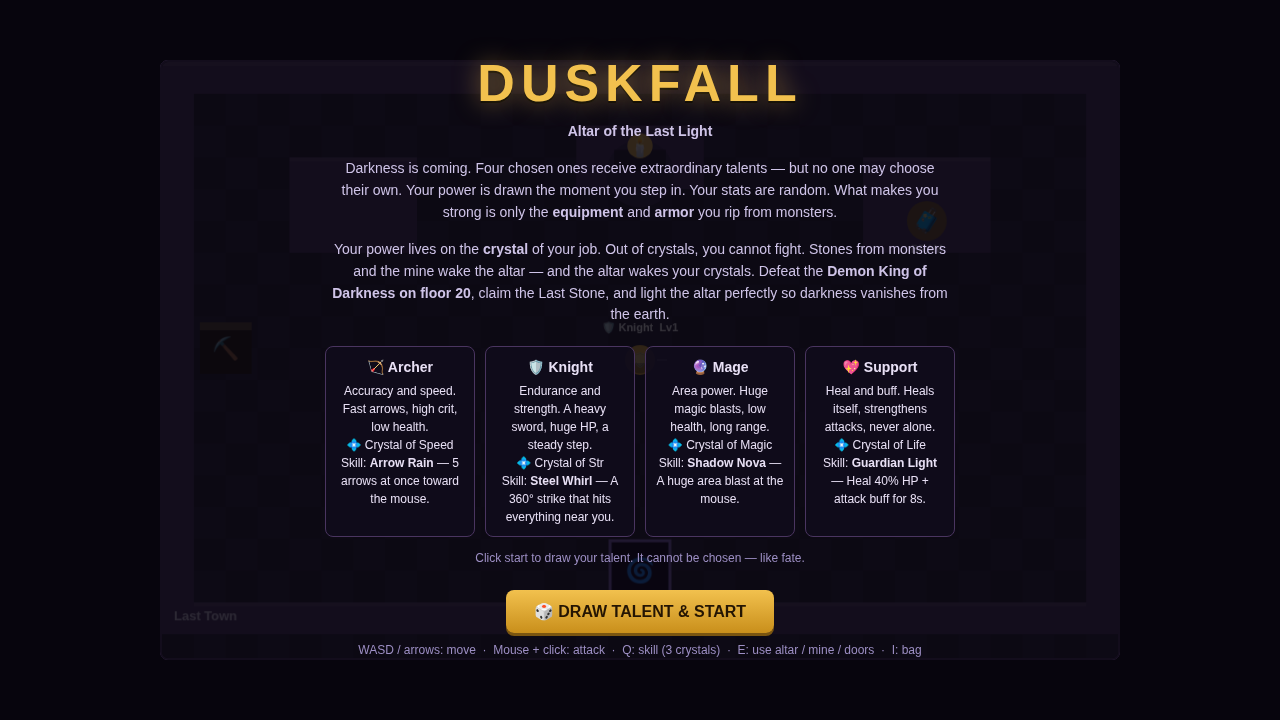
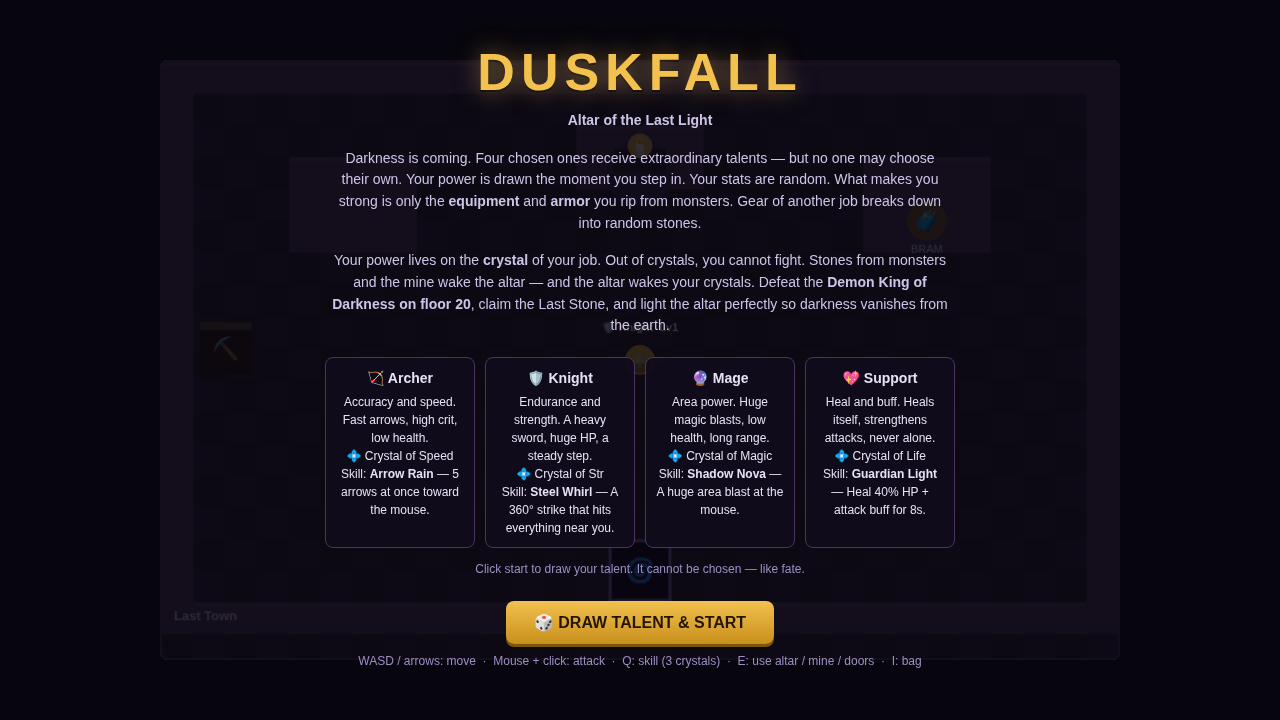
Duskfall — remove gold; job-tagged gear + salvage, stones HUD

Changed region(s): [[0.25, 0.4889, 0.75, 0.9472], [0.25, 0.0611, 0.75, 0.4583], [0.25, 0.7333, 0.2812, 0.7639]]

diff --git a/game/src/main.js b/game/src/main.js
@@ -1,7 +1,7 @@
 // Duskfall — entrypoint: state machine, game loop, HUD, town systems
 // (altar, trader, mine timer), dungeon progression and the ending.
 
-import { CLASSES, CLASS_IDS, STONES, CRYSTAL_PER_STONE, TRADE_RATE, statSummary } from './data.js';
+import { CLASSES, CLASS_IDS, STONES, CRYSTAL_PER_STONE, TRADE_RATE, SALVAGE_YIELD, rollArmor, statSummary } from './data.js';
 import { buildTown, buildMine, buildDungeonFloor, nearestObject, collide, TOWN, DUNGEON, MINE } from './world.js';
 import {
   createPlayer, effectiveStats, syncMaxHp, playerAttack, useSkill,
@@ -17,9 +17,9 @@ const ctx = canvas.getContext('2d');
 const $ = (id) => document.getElementById(id);
 const els = {
   hpFill: $('hpFill'), hpText: $('hpText'), xpFill: $('xpFill'), xpText: $('xpText'),
-  crystalPill: $('crystalPill'), floorPill: $('floorPill'), goldText: $('goldText'),
+  crystalPill: $('crystalPill'), floorPill: $('floorPill'), stonesTop: $('stonesTop'),
   mineText: $('mineText'), classPill: $('classPill'), gearPill: $('gearPill'),
-  stonePill: $('stonePill'), toast: $('toast'), prompt: $('prompt'),
+  toast: $('toast'), prompt: $('prompt'),
   title: $('titleScreen'), dead: $('deadScreen'), win: $('winScreen'),
   deadStats: $('deadStats'), winStats: $('winStats'),
   altarPanel: $('altarPanel'), traderPanel: $('traderPanel'), invPanel: $('invPanel'),
@@ -148,16 +148,13 @@ function openAltar() {
 function openTrader() {
   panel = 'trader';
   const own = player.cls.crystal;
-  let html = `<p>💰 Your gold: <b>${player.gold}</b> &nbsp;·&nbsp; Stones of your job (${STONES[own].name}): <b>${player.stones[own]}</b></p>`;
+  let html = `<p>Stones of your job (${STONES[own].name}): <b>${player.stones[own]}</b></p>`;
   for (const [kind, st] of Object.entries(STONES)) {
     if (kind === own) continue;
     const n = player.stones[kind];
     html += `<div class="row"><span>${st.icon} ${st.name}: <b>${n}</b></span>
-      <button data-trade="${kind}" ${n < TRADE_RATE ? 'disabled' : ''}>Trade ${TRADE_RATE} → 1 ${STONES[own].name}</button>
-      <button data-sell="${kind}" ${n < 1 ? 'disabled' : ''}>Sell 1 (+10 🪙)</button></div>`;
+      <button data-trade="${kind}" ${n < TRADE_RATE ? 'disabled' : ''}>Trade ${TRADE_RATE} → 1 ${STONES[own].name}</button></div>`;
   }
-  html += `<div class="row"><span>Buy 1 ${STONES[own].name}</span>
-    <button data-buy="1" ${player.gold < 25 ? 'disabled' : ''}>25 🪙</button></div>`;
   els.traderRows.innerHTML = html;
   els.traderRows.querySelectorAll('button[data-trade]').forEach((b) => {
     b.addEventListener('click', () => {
@@ -170,21 +167,6 @@ function openTrader() {
       openTrader(); updateHud();
     });
   });
-  els.traderRows.querySelectorAll('button[data-sell]').forEach((b) => {
-    b.addEventListener('click', () => {
-      const k = b.dataset.sell;
-      if (player.stones[k] < 1) return;
-      player.stones[k] -= 1; player.gold += 10;
-      sfx.coin(); openTrader(); updateHud();
-    });
-  });
-  els.traderRows.querySelectorAll('button[data-buy]').forEach((b) => {
-    b.addEventListener('click', () => {
-      if (player.gold < 25) return;
-      player.gold -= 25; player.stones[own] += 1;
-      sfx.coin(); openTrader(); updateHud();
-    });
-  });
   els.traderPanel.style.display = 'flex';
 }
 
@@ -194,12 +176,17 @@ function openInv() {
   let html = `<p>Effective stats: ATK <b>${st.atk}</b> · DEF <b>${st.def}</b> · HP <b>${player.hp}/${player.maxHp}</b> · CRIT <b>${Math.round(st.crit * 100)}%</b></p>`;
   html += '<p>Equipped:</p><div style="display:flex;gap:6px;flex-wrap:wrap">';
   for (const [slot, item] of Object.entries(player.equipped)) {
-    html += `<div class="slot" data-eq="${slot}">${slot.toUpperCase()}<br>${item ? `<span class="r-${item.rarity}">${item.name}</span><br>${statSummary(item.stats)}` : '— empty —'}</div>`;
+    html += `<div class="slot" data-eq="${slot}">${slot.toUpperCase()}<br>${item ? `<span class="r-${item.rarity}">${item.name}</span><br>${statSummary(item.stats)}<br><span style="color:#9d8fc4">${CLASSES[item.job].icon} ${CLASSES[item.job].name}</span>` : '— empty —'}</div>`;
   }
   html += '</div><p>Bag (click to equip):</p><div style="display:flex;gap:6px;flex-wrap:wrap">';
   if (!player.inventory.length) html += '<span style="color:#9d8fc4">Bag is empty — defeat monsters for armor drops.</span>';
   for (const item of player.inventory) {
-    html += `<div class="slot" data-item="${item.id}"><span class="r-${item.rarity}">${item.name}</span><br>${statSummary(item.stats)}</div>`;
+    const jobLine = `<br><span style="color:#9d8fc4">${CLASSES[item.job].icon} ${CLASSES[item.job].name}</span>`;
+    if (item.job === player.classId) {
+      html += `<div class="slot" data-item="${item.id}"><span class="r-${item.rarity}">${item.name}</span><br>${statSummary(item.stats)}${jobLine}</div>`;
+    } else {
+      html += `<div class="slot" data-salvage="${item.id}"><span class="r-${item.rarity}">${item.name}</span><br>${statSummary(item.stats)}${jobLine}<br><b style="color:#ffd94a">🔨 Salvage → ${SALVAGE_YIELD[item.rarity] || 1} 🪨 random</b></div>`;
+    }
   }
   html += '</div>';
   els.inv.innerHTML = html;
@@ -211,6 +198,13 @@ function openInv() {
       sfx.pickup(); openInv(); updateHud();
     });
   });
+  els.inv.querySelectorAll('[data-salvage]').forEach((el) => {
+    el.addEventListener('click', () => {
+      const item = player.inventory.find((i) => i.id === el.dataset.salvage);
+      if (!item) return;
+      salvageItem(item);
+    });
+  });
   els.inv.querySelectorAll('[data-eq]').forEach((el) => {
     el.addEventListener('click', () => {
       const item = player.equipped[el.dataset.eq];
@@ -220,6 +214,23 @@ function openInv() {
     });
   });
   els.invPanel.style.display = 'flex';
+}
+
+// Break down a wrong-job piece into random stones, scaled by rarity.
+function salvageItem(item) {
+  const n = SALVAGE_YIELD[item.rarity] || 1;
+  const kinds = Object.keys(STONES);
+  const gained = {};
+  for (let i = 0; i < n; i++) {
+    const k = kinds[Math.floor(Math.random() * kinds.length)];
+    player.stones[k] += 1;
+    gained[k] = (gained[k] || 0) + 1;
+  }
+  player.inventory = player.inventory.filter((i) => i !== item);
+  sfx.pickup();
+  const parts = Object.entries(gained).map(([k, c]) => `${STONES[k].icon}${c}`).join(' ');
+  toast(`🔨 ${item.name} → +${n} 🪨 (${parts})`);
+  openInv(); updateHud();
 }
 
 // ---- run flow -------------------------------------------------------------
@@ -322,13 +333,12 @@ function updateHud() {
   els.xpText.textContent = `Lv ${player.level}`;
   els.crystalPill.innerHTML = `${player.cls.crystalIcon} ${player.cls.crystalName} <b>${player.crystals}</b>`;
   els.floorPill.textContent = area.kind === TOWN ? '🏠 Last Town' : area.kind === MINE ? '⛏ Mine' : `🌀 Floor ${area.floor}/20`;
-  els.goldText.textContent = player.gold;
   els.mineText.textContent = fmtTime(mineLeft());
   els.classPill.textContent = `${player.cls.icon} ${player.cls.name} · ATK ${st.atk} · DEF ${st.def}`;
   const eq = player.equipped;
   els.gearPill.textContent = `⚔ ${eq.weapon ? eq.weapon.name : '—'} · 🛡 ${eq.armor ? eq.armor.name : '—'} · ✨ ${eq.charm ? eq.charm.name : '—'}`;
   const stones = Object.entries(player.stones).map(([k, n]) => `${STONES[k].icon}${n}`).join(' ');
-  els.stonePill.textContent = `🪨 ${stones}${player.hasDawnStone ? ' · ☀ Last Stone' : ''}`;
+  els.stonesTop.innerHTML = `🪨 ${stones}${player.hasDawnStone ? ' · ☀ Last Stone' : ''}`;
   if (player.crystals === 0) els.crystalPill.style.borderColor = '#ff5a5a';
   else els.crystalPill.style.borderColor = '';
 }
@@ -423,7 +433,7 @@ function stageScene(scene) {
   if (scene === 'win' || scene === 'dead') {
     player = createPlayer(rng);
     player.level = 14; player.kills = 187; player.floorsCleared = 20;
-    player.crystals = 12; player.gold = 340;
+    player.crystals = 12;
     player.stones = { speed: 3, str: 2, magic: 4, life: 1 };
     player.hasDawnStone = true;
     runStartedAt = performance.now() - 42 * 60000;
@@ -437,7 +447,7 @@ function stageScene(scene) {
   if (scene === 'title') return; // default title screen
   player = createPlayer(rng);
   syncMaxHp(player, 0);
-  player.crystals = 18; player.gold = 120; player.level = 5; player.kills = 23;
+  player.crystals = 18; player.level = 5; player.kills = 23;
   player.stones = { speed: 4, str: 2, magic: 1, life: 3 };
   player.inventory = [];
   runStartedAt = performance.now() - 9 * 60000;
@@ -447,6 +457,15 @@ function stageScene(scene) {
     area = buildTown();
     player.x = 15 * 32; player.y = 8 * 32;
     if (scene === 'altar') openAltar();
+  } else if (scene === 'bag') {
+    // Staged bag demo: one own-job piece, two wrong-job pieces (one rare).
+    area = buildTown();
+    player.x = 15 * 32; player.y = 8 * 32;
+    player.inventory = [rollArmor(rng, 6), rollArmor(rng, 6), rollArmor(rng, 6)];
+    player.inventory[0].job = player.classId;
+    player.inventory[1].job = CLASS_IDS.find((id) => id !== player.classId);
+    player.inventory[1].rarity = 'rare';
+    openInv();
   } else if (scene === 'mine') {
     area = buildMine(rng);
     player.x = 15 * 32; player.y = 9 * 32;
@@ -467,7 +486,7 @@ function stageScene(scene) {
       m.hitCd = 1.5; m.shootCd = 2; m.flash = 0;
     });
     area.drops.push({ x: 14 * 32, y: 9 * 32, kind: 'stone', stone: 'magic', n: 2, r: 10 });
-    area.drops.push({ x: 10 * 32, y: 8 * 32, kind: 'gold', n: 12, r: 8 });
+    area.drops.push({ x: 10 * 32, y: 8 * 32, kind: 'stone', stone: 'str', n: 2, r: 10 });
   }
   updateHud();
 }

diff --git a/game/index.html b/game/index.html
@@ -64,7 +64,7 @@
     <div class="bar xp"><i id="xpFill" style="width:0%"></i><span id="xpText">Lv 1</span></div>
     <span class="pill" id="crystalPill">🔷 Crystal <b>0</b></span>
     <span class="pill" id="floorPill">🏠 Town</span>
-    <span class="pill">🪙 <b id="goldText">0</b></span>
+    <span class="pill" id="stonesTop">🪨 —</span>
     <span class="pill">⏳ Mine <b id="mineText">60:00</b></span>
   </div>
 
@@ -74,7 +74,6 @@
   <div class="hud" id="hudBottom">
     <span id="classPill">—</span>
     <span id="gearPill">⚔ — 🛡 — ✨ —</span>
-    <span id="stonePill">🪨 —</span>
     <span><kbd>WASD</kbd> move · <kbd>Click</kbd> attack · <kbd>Q</kbd> skill · <kbd>E</kbd> use · <kbd>I</kbd> bag · <kbd>M</kbd> sound</span>
   </div>
 
@@ -83,7 +82,8 @@
     <p><b>Altar of the Last Light</b></p>
     <p>Darkness is coming. Four chosen ones receive extraordinary talents — but no one
        may choose their own. Your power is drawn the moment you step in. Your stats are
-       random. What makes you strong is only the <b>equipment</b> and <b>armor</b> you rip from monsters.</p>
+       random. What makes you strong is only the <b>equipment</b> and <b>armor</b> you rip from monsters.
+       Gear of another job breaks down into random stones.</p>
     <p>Your power lives on the <b>crystal</b> of your job. Out of crystals, you cannot fight.
        Stones from monsters and the mine wake the altar — and the altar wakes your crystals.
        Defeat the <b>Demon King of Darkness on floor 20</b>, claim the Last Stone, and light the altar
@@ -122,7 +122,7 @@
   <div class="panel" id="traderPanel">
     <div class="box">
       <h2>🧳 Stone Merchant — Bram</h2>
-      <p>"Wrong-job stones? Bring them here. Any two stones I trade for one stone of your job. Or sell stones, buy what you need."</p>
+      <p>"Wrong-job stones? Bring them here. Any two stones I trade for one stone of your job."</p>
       <div id="traderRows"></div>
       <div class="row"><button id="traderClose" class="ghost">Close (E)</button></div>
     </div>
@@ -131,7 +131,7 @@
   <div class="panel" id="invPanel">
     <div class="box">
       <h2>🎒 Bag &amp; Equipment</h2>
-      <p>Click equipment to equip / unequip. Armor and weapons raise your random stats.</p>
+      <p>Click equipment of your job to equip / unequip. Gear of another job can only be salvaged into random stones.</p>
       <div id="inv"></div>
       <div class="row"><button id="invClose" class="ghost">Close (I)</button></div>
     </div>

diff --git a/game/src/data.js b/game/src/data.js
@@ -98,6 +98,9 @@ const CHARM_NAMES = ['Lantern', 'Ring', 'Necklace', 'Bracelet', 'Sigil'];
 const PREFIX = ['Twilight', 'Gloom', 'Ember', 'Dawn', 'Shadow', 'Dusk', 'Rune', 'Vow'];
 const SUFFIX = ['of the Guardian', 'of the Hunter', 'the Last', 'of the Lost', 'of the Brave', 'of the Chosen'];
 
+// Salvage: gear of another job breaks down into random stones, scaled by rarity.
+export const SALVAGE_YIELD = { common: 1, rare: 2, epic: 3, legend: 5 };
+
 export function rollStats(rng) {
   return {
     hp: 40 + Math.floor(rng() * 60),
@@ -122,6 +125,9 @@ export function rollArmor(rng, floor) {
   const pick = (arr) => arr[Math.floor(rng() * arr.length)];
   const base = slot === 'weapon' ? pick(WEAPON_NAMES) : slot === 'armor' ? pick(ARMOR_NAMES) : pick(CHARM_NAMES);
   const name = `${pick(PREFIX)} ${base} ${pick(SUFFIX)}`;
+  // Every piece belongs to one job: only that job can wear it. Anything else
+  // is salvage — broken down into random stones.
+  const job = CLASS_IDS[Math.floor(rng() * CLASS_IDS.length)];
   const stats = {};
   const keys = ['atk', 'def', 'hp', 'crit'];
   const nStats = 1 + (rarity === 'rare' ? 1 : 0) + (rarity === 'epic' ? 1 : 0) + (rarity === 'legend' ? 2 : 0);
@@ -132,7 +138,7 @@ export function rollArmor(rng, floor) {
     else if (k === 'def') stats.def = (stats.def || 0) + Math.round((1 + rng() * 3) * mult);
     else stats.crit = (stats.crit || 0) + Math.round((2 + rng() * 4) * mult) / 100;
   }
-  return { id: 'eq' + Math.floor(rng() * 1e9).toString(36), name, slot, rarity, stats, floor };
+  return { id: 'eq' + Math.floor(rng() * 1e9).toString(36), name, slot, rarity, stats, floor, job };
 }
 
 export function statSummary(stats) {

diff --git a/game/src/combat.js b/game/src/combat.js
@@ -20,7 +20,7 @@ export function createPlayer(rng) {
     classId, cls, rolled,
     x: 15 * 32, y: 10 * 32, r: 15,
     hp: stats.hp, maxHp: stats.hp,
-    crystals: 25, gold: 20,
+    crystals: 25,
     level: 1, xp: 0, xpNext: 40,
     stones: { speed: 0, str: 0, magic: 0, life: 0 },
     inventory: [], equipped: { weapon: null, armor: null, charm: null },
@@ -216,9 +216,8 @@ function rollDrops(area, player, m) {
     const item = rollArmor(makeRng(Math.floor(rng() * 1e9)), floor);
     area.drops.push({ x: m.x, y: m.y + 14, kind: 'armor', item, r: 12 });
   }
-  // Hearts and gold keep a run alive.
+  // Hearts keep a run alive.
   if (rng() < 0.25) area.drops.push({ x: m.x, y: m.y - 14, kind: 'heart', n: Math.round(player.maxHp * 0.2), r: 9 });
-  if (rng() < 0.6) area.drops.push({ x: m.x + 16, y: m.y, kind: 'gold', n: 4 + Math.floor(rng() * 10), r: 8 });
 }
 
 export function collectDrops(player, area) {
@@ -238,10 +237,6 @@ export function collectDrops(player, area) {
       player.hp = Math.min(player.maxHp, player.hp + d.n);
       addText(area, player.x, player.y - 24, `+${d.n} HP`, '#7ddb6a');
       sfx.pickup();
-    } else if (d.kind === 'gold') {
-      player.gold += d.n;
-      addText(area, player.x, player.y - 24, `+${d.n} 🪙`, '#f2c14e');
-      sfx.coin();
     }
   }
   area.drops = area.drops.filter((d) => !d.taken);

diff --git a/game/src/render.js b/game/src/render.js
@@ -119,11 +119,6 @@ function drawDrop(ctx, d, now) {
   } else if (d.kind === 'heart') {
     ctx.font = '16px sans-serif'; ctx.textAlign = 'center';
     ctx.fillText('❤', 0, 6);
-  } else if (d.kind === 'gold') {
-    ctx.fillStyle = '#f2c14e';
-    ctx.beginPath(); ctx.arc(0, 0, 7, 0, Math.PI * 2); ctx.fill();
-    ctx.fillStyle = '#7a5510'; ctx.font = '9px sans-serif'; ctx.textAlign = 'center';
-    ctx.fillText('G', 0, 3);
   }
   ctx.restore();
 }

diff --git a/README.md b/README.md
@@ -26,6 +26,9 @@ and **armor** you take from monsters.
 - **Stones feed the altar.** Monsters drop stones of random kinds. Feed
   your job's stones to the Altar of the Last Light and it makes crystals.
   Stones of another job cannot be used — trade them with Bram the merchant.
+- **Gear has a job.** Every armor piece belongs to one job: only that job
+  can wear it. Gear of another job breaks down into random stones —
+  1 for Common, 2 for Rare, 3 for Epic, 5 for Legendary.
 - **The mine is safe, but timed.** The crystal mine holds only stones for
   the altar, never crystals directly. Entry is limited to 1 hour a day.
 - **The dungeon has 20 floors.** Clear a floor to open the stairs down.
@@ -43,7 +46,7 @@ and **armor** you take from monsters.
 | Mouse + hold click | Attack toward the mouse (1 crystal) |
 | Q | Class skill (3 crystals) |
 | E | Use altar / trader / mine / doors / stairs |
-| I | Bag & equipment (click to equip) |
+| I | Bag & equipment (click own-job gear to equip, wrong-job gear to salvage) |
 | M | Mute |
 | R | Restart after death or victory |
 
